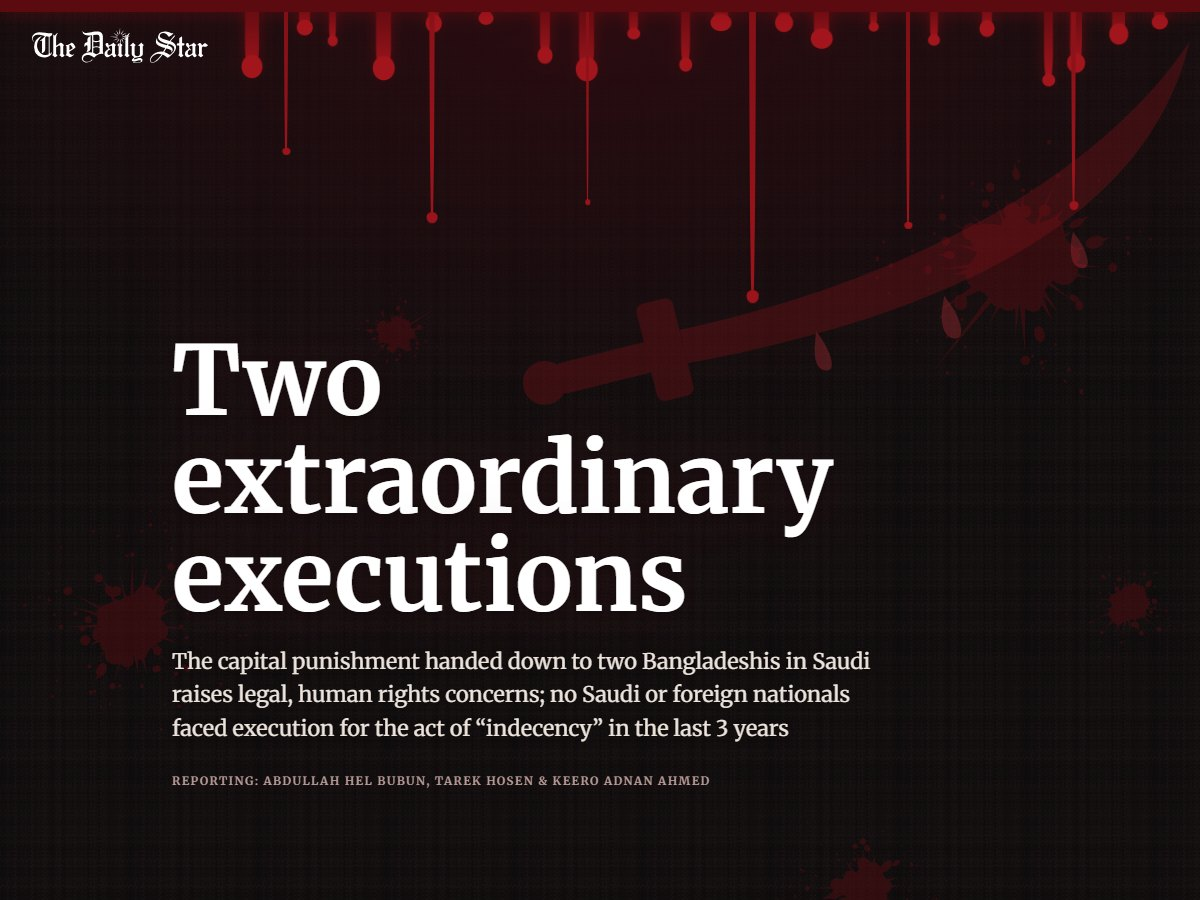
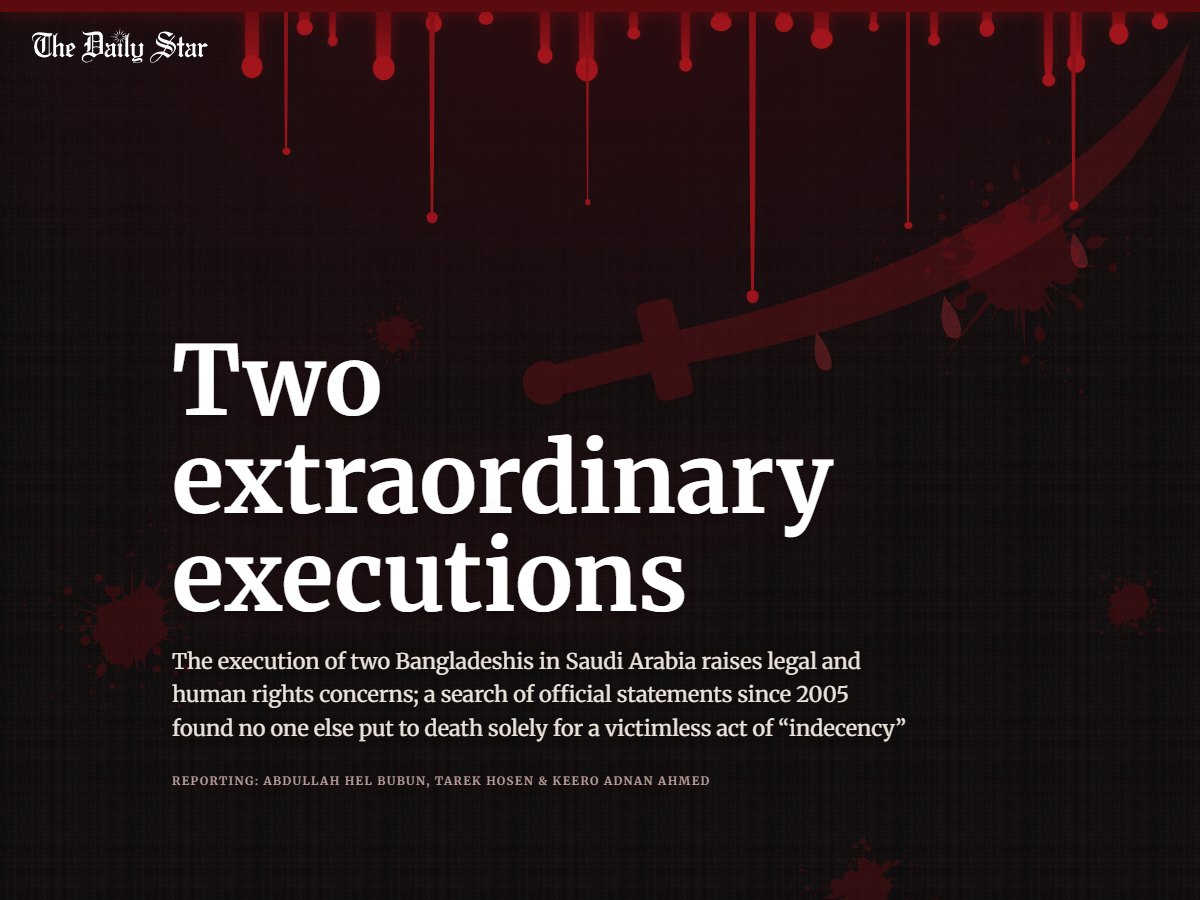
New dek, single SPA-archive paragraph with a working methodology link, credit rename
- Dek (hero + JSON-LD): search of official statements since 2005 found no one else put to death
  solely for a victimless act of "indecency". The old dek's "no Saudi or foreign nationals" was
  contradicted by the story itself. Share images re-shot from the new hero.
- The two SPA archive paragraphs are replaced by one paragraph after scene 1. "see Methodology
  Note" opens the note and jumps to it (Chrome 87 won't open <details> on a hash); Back returns
  to the paragraph. Methodology names the Boolean search and states its limit.
- Footer, llms.txt, README: "Data Collection & Processing: Mir Rownak".

Changed region(s): [[0.1542, 0.7156, 0.74, 0.84]]

diff --git a/index.html b/index.html
@@ -52,7 +52,7 @@
 <meta name="twitter:description" content="A Daily Star analysis of 665 Saudi government execution statements between January 2024 and 20 October 2026 reveals that the execution of Nazrul and Sweety was extremely unusual.">
 <meta name="twitter:image" content="https://campaign.thedailystar.net/saudi-execution/img/share.jpg">
 <meta name="twitter:image:alt" content="The story’s opening screen: the headline Two extraordinary executions, the standfirst and the byline over blood drips, splatters and a sword">
-<script type="application/ld+json">{"@context": "https://schema.org", "@type": "NewsArticle", "mainEntityOfPage": {"@type": "WebPage", "@id": "https://campaign.thedailystar.net/saudi-execution/"}, "url": "https://campaign.thedailystar.net/saudi-execution/", "headline": "Two extraordinary executions", "alternativeHeadline": "The capital punishment handed down to two Bangladeshis in Saudi raises legal, human rights concerns; no Saudi or foreign nationals faced execution for the act of “indecency” in the last 3 years", "description": "A Daily Star analysis of 665 Saudi government execution statements between January 2024 and 20 October 2026 reveals that the execution of Nazrul and Sweety was extremely unusual.", "image": ["https://campaign.thedailystar.net/saudi-execution/img/share-16x9.jpg", "https://campaign.thedailystar.net/saudi-execution/img/share-4x3.jpg", "https://campaign.thedailystar.net/saudi-execution/img/share-1x1.jpg", "https://campaign.thedailystar.net/saudi-execution/img/share.jpg"], "thumbnailUrl": "https://campaign.thedailystar.net/saudi-execution/img/share.jpg", "datePublished": "2026-10-29T00:00:00+06:00", "dateModified": "2026-10-29T00:00:00+06:00", "inLanguage": "en", "isAccessibleForFree": true, "articleSection": "Investigation", "keywords": ["Saudi Arabia executions", "Saudi Arabia death penalty", "Bangladeshi executed in Saudi Arabia", "Nazrul Islam Abdul Basir", "Sweety Akhtar", "Nazrul and Sweety execution", "fahisha", "indecency execution Makkah", "ta'zir", "qisas", "hudud", "Saudi Interior Ministry", "Saudi war on drugs", "drug-related executions", "captagon", "foreign nationals executed in Saudi Arabia", "migrant workers Saudi Arabia", "Bangladeshi migrants", "Amnesty International", "Reprieve", "European Saudi Organization for Human Rights", "most serious crimes international law", "Islamic law death penalty", "Saudi executions 2025", "Saudi executions 2026", "The Daily Star investigation"], "author": [{"@type": "Person", "name": "Abdullah Hel Bubun"}, {"@type": "Person", "name": "Tarek Hosen"}, {"@type": "Person", "name": "Keero Adnan Ahmed"}], "contributor": [{"@type": "Person", "name": "Mir Rownak"}], "publisher": {"@type": "NewsMediaOrganization", "name": "The Daily Star", "url": "https://www.thedailystar.net/", "logo": {"@type": "ImageObject", "url": "https://campaign.thedailystar.net/saudi-execution/img/logo.png", "width": 600, "height": 60}, "sameAs": ["https://www.facebook.com/dailystarnews", "https://x.com/dailystarnews", "https://www.youtube.com/channel/UCKSJ5rTXq-pYgAmAOhVS_zQ", "https://www.instagram.com/dailystar_bd/", "https://www.linkedin.com/company/thedailystar/"]}, "contentLocation": {"@type": "Place", "name": "Makkah, Saudi Arabia"}, "wordCount": 2564, "copyrightYear": 2026, "copyrightHolder": {"@type": "NewsMediaOrganization", "name": "The Daily Star"}, "about": [{"@type": "Thing", "name": "Capital punishment in Saudi Arabia"}, {"@type": "Thing", "name": "Bangladeshi migrant workers"}], "mentions": [{"@type": "Person", "name": "Nazrul Islam Abdul Basir"}, {"@type": "Person", "name": "Sweety Akhtar"}, {"@type": "Organization", "name": "Amnesty International"}, {"@type": "Organization", "name": "Reprieve"}, {"@type": "Organization", "name": "European Saudi Organization for Human Rights"}, {"@type": "GovernmentOrganization", "name": "Ministry of Interior, Saudi Arabia"}]}</script>
+<script type="application/ld+json">{"@context": "https://schema.org", "@type": "NewsArticle", "mainEntityOfPage": {"@type": "WebPage", "@id": "https://campaign.thedailystar.net/saudi-execution/"}, "url": "https://campaign.thedailystar.net/saudi-execution/", "headline": "Two extraordinary executions", "alternativeHeadline": "The execution of two Bangladeshis in Saudi Arabia raises legal and human rights concerns; a search of official statements since 2005 found no one else put to death solely for a victimless act of “indecency”", "description": "A Daily Star analysis of 665 Saudi government execution statements between January 2024 and 20 October 2026 reveals that the execution of Nazrul and Sweety was extremely unusual.", "image": ["https://campaign.thedailystar.net/saudi-execution/img/share-16x9.jpg", "https://campaign.thedailystar.net/saudi-execution/img/share-4x3.jpg", "https://campaign.thedailystar.net/saudi-execution/img/share-1x1.jpg", "https://campaign.thedailystar.net/saudi-execution/img/share.jpg"], "thumbnailUrl": "https://campaign.thedailystar.net/saudi-execution/img/share.jpg", "datePublished": "2026-10-29T00:00:00+06:00", "dateModified": "2026-10-29T00:00:00+06:00", "inLanguage": "en", "isAccessibleForFree": true, "articleSection": "Investigation", "keywords": ["Saudi Arabia executions", "Saudi Arabia death penalty", "Bangladeshi executed in Saudi Arabia", "Nazrul Islam Abdul Basir", "Sweety Akhtar", "Nazrul and Sweety execution", "fahisha", "indecency execution Makkah", "ta'zir", "qisas", "hudud", "Saudi Interior Ministry", "Saudi war on drugs", "drug-related executions", "captagon", "foreign nationals executed in Saudi Arabia", "migrant workers Saudi Arabia", "Bangladeshi migrants", "Amnesty International", "Reprieve", "European Saudi Organization for Human Rights", "most serious crimes international law", "Islamic law death penalty", "Saudi executions 2025", "Saudi executions 2026", "The Daily Star investigation"], "author": [{"@type": "Person", "name": "Abdullah Hel Bubun"}, {"@type": "Person", "name": "Tarek Hosen"}, {"@type": "Person", "name": "Keero Adnan Ahmed"}], "contributor": [{"@type": "Person", "name": "Mir Rownak"}], "publisher": {"@type": "NewsMediaOrganization", "name": "The Daily Star", "url": "https://www.thedailystar.net/", "logo": {"@type": "ImageObject", "url": "https://campaign.thedailystar.net/saudi-execution/img/logo.png", "width": 600, "height": 60}, "sameAs": ["https://www.facebook.com/dailystarnews", "https://x.com/dailystarnews", "https://www.youtube.com/channel/UCKSJ5rTXq-pYgAmAOhVS_zQ", "https://www.instagram.com/dailystar_bd/", "https://www.linkedin.com/company/thedailystar/"]}, "contentLocation": {"@type": "Place", "name": "Makkah, Saudi Arabia"}, "wordCount": 2415, "copyrightYear": 2026, "copyrightHolder": {"@type": "NewsMediaOrganization", "name": "The Daily Star"}, "about": [{"@type": "Thing", "name": "Capital punishment in Saudi Arabia"}, {"@type": "Thing", "name": "Bangladeshi migrant workers"}], "mentions": [{"@type": "Person", "name": "Nazrul Islam Abdul Basir"}, {"@type": "Person", "name": "Sweety Akhtar"}, {"@type": "Organization", "name": "Amnesty International"}, {"@type": "Organization", "name": "Reprieve"}, {"@type": "Organization", "name": "European Saudi Organization for Human Rights"}, {"@type": "GovernmentOrganization", "name": "Ministry of Interior, Saudi Arabia"}]}</script>
 <link rel="icon" href="img/favicon.ico" sizes="16x16">
 <link rel="sitemap" type="application/xml" title="Sitemap" href="sitemap.xml">
 <link rel="preload" href="fonts/merriweather-700.woff2" as="font" type="font/woff2" crossorigin>
@@ -160,7 +160,7 @@ mark.k{background:none;padding:0;font-weight:700}
 .cats[open]>summary:after,.meth[open]>summary:after{transform:rotate(45deg)}
 /* methodology note: a native disclosure on the page ground, between the names band and the footer */
 .mband{padding:2.6rem var(--gutter) 2.8rem;text-align:center}
-.meth{max-width:680px;margin:0 auto}
+.meth{max-width:680px;margin:0 auto;scroll-margin-top:1.5rem}
 .meth summary{display:inline-flex;align-items:center;gap:.8rem;min-height:44px;padding:.7rem 1.15rem;font:700 1rem/1.4 var(--serif);color:#f0c4bd;border:1px solid rgba(240,196,189,.32);background:rgba(8,5,6,.6);cursor:pointer;list-style:none;-webkit-tap-highlight-color:transparent}
 .meth summary:after{margin-left:0}
 .meth__in{margin-top:1.4rem;text-align:left}
@@ -390,7 +390,7 @@ dialog.prm::backdrop{background:rgba(0,0,0,.8)}
 <header class="hero" id="top">
 <div class="hero__art" aria-hidden="true"><div class="hero__glow"></div><svg class="spl" style="left:85%;top:26%;--s:300px;--r:0deg"><use href="#spl3"/></svg><svg class="spl" style="left:11%;top:62%;--s:240px;--r:70deg"><use href="#spl"/></svg><svg class="spl" style="left:72%;top:88%;--s:190px;--r:140deg"><use href="#spl2"/></svg><svg class="spl" style="left:33%;top:33%;--s:100px;--r:200deg"><use href="#spl3"/></svg><svg class="spl" style="left:94%;top:60%;--s:130px;--r:260deg"><use href="#spl"/></svg><svg class="sword" viewBox="0 0 500 220" aria-hidden="true"><path d="M130 118C250 122 400 100 492 18C446 108 330 152 130 140Z"/><rect x="106" y="96" width="24" height="64" rx="5"/><path d="M108 120H52a8 8 0 0 0 0 20h56z"/><circle cx="38" cy="130" r="14"/><path class="dr" d="M300 138c-7 14-8 26 0 28s7-14 0-28zM390 118c-6 12-7 22 0 24s6-12 0-24zM215 140c-6 14-7 24 0 26s6-12 0-26z"/></svg><div class="drips"><i style="left:1.8%;height:67px;width:14px;animation-duration:9.3s;animation-delay:-4.1s"></i><i style="left:7.3%;height:32px;width:11px;animation-duration:10.4s;animation-delay:-6.3s"></i><i style="left:10.4%;height:38px;width:7px;animation-duration:11.7s;animation-delay:-5.5s"></i><i style="left:15.2%;height:69px;width:15px;animation-duration:10.6s;animation-delay:-4.9s"></i><i style="left:20.6%;height:25px;width:11px;animation-duration:6.4s;animation-delay:-1.5s"></i><i style="left:26.0%;height:25px;width:10px;animation-duration:9.1s;animation-delay:-6.7s"></i><i style="left:32.1%;height:53px;width:10px;animation-duration:10.6s;animation-delay:-3.7s"></i><i style="left:36.1%;height:70px;width:15px;animation-duration:11.9s;animation-delay:-5.7s"></i><i style="left:41.3%;height:41px;width:9px;animation-duration:6.5s;animation-delay:-6.1s"></i><i style="left:46.6%;height:63px;width:9px;animation-duration:12.7s;animation-delay:-6.8s"></i><i style="left:50.0%;height:34px;width:14px;animation-duration:9.3s;animation-delay:-7.8s"></i><i style="left:56.6%;height:27px;width:12px;animation-duration:11.4s;animation-delay:-2.2s"></i><i style="left:60.3%;height:49px;width:15px;animation-duration:11.3s;animation-delay:-0.9s"></i><i style="left:66.0%;height:29px;width:7px;animation-duration:11.6s;animation-delay:-1.4s"></i><i style="left:72.2%;height:45px;width:8px;animation-duration:11.1s;animation-delay:-1.0s"></i><i style="left:77.6%;height:29px;width:10px;animation-duration:7.5s;animation-delay:-2.2s"></i><i style="left:83.9%;height:85px;width:9px;animation-duration:12.2s;animation-delay:-1.7s"></i><i style="left:86.6%;height:63px;width:12px;animation-duration:6.7s;animation-delay:-7.9s"></i><i style="left:90.9%;height:36px;width:13px;animation-duration:8.3s;animation-delay:-2.4s"></i><i style="left:95.3%;height:28px;width:11px;animation-duration:7.7s;animation-delay:-4.8s"></i><span class="run w" style="left:6%;--w:4px;--len:44%;--from:0.35"><i></i></span><span class="run" style="left:21%;--w:6px;--len:100%;--from:0.22"><i></i></span><span class="run w" style="left:37%;--w:3px;--len:68%;--from:0.3"><i></i></span><span class="run" style="left:54%;--w:7px;--len:100%;--from:0.3"><i></i></span><span class="run w" style="left:70%;--w:4px;--len:57%;--from:0.4"><i></i></span><span class="run" style="left:87%;--w:5px;--len:83%;--from:0.25"><i></i></span></div><div class="band"></div><div class="pool"></div></div>
 <div class="masthead"><a href="https://www.thedailystar.net" target="_blank" rel="noopener" aria-label="The Daily Star home (opens in a new tab)"><svg class="tds-logo" viewBox="0 0 321.41 63.84" aria-hidden="true"><use href="#tds-logo"/></svg></a></div>
-<div class="hero__body"><h1 tabindex="-1">Two extraordinary executions</h1><p class="dek">The capital punishment handed down to two Bangladeshis in Saudi raises legal, human rights concerns; no Saudi or foreign nationals faced execution for the act of “indecency” in the last 3 years</p><p class="by">Reporting: Abdullah Hel Bubun, Tarek Hosen &amp; Keero Adnan Ahmed</p></div>
+<div class="hero__body"><h1 tabindex="-1">Two extraordinary executions</h1><p class="dek">The execution of two Bangladeshis in Saudi Arabia raises legal and human rights concerns; a search of official statements since 2005 found no one else put to death solely for a victimless act of “indecency”</p><p class="by">Reporting: Abdullah Hel Bubun, Tarek Hosen &amp; Keero Adnan Ahmed</p></div>
 </header>
 <main id="story">
 <div class="txt"><p>Nazrul Islam Abdul Basir and Sweety Akhtar left Bangladesh for Saudi Arabia in 2022, hoping for a better life. Both used to work as cleaners for a Saudi company called AL-Majal to support their families back home.</p>
@@ -398,12 +398,11 @@ dialog.prm::backdrop{background:rgba(0,0,0,.8)}
 <p>In a <button type="button" class="prl" id="prOpen" aria-haspopup="dialog">statement</button> announcing the executions, the Saudi Interior Ministry said the punishment reflected the “seriousness and gravity” of the crime which it said violated the <mark class="r">“sanctity of the time and place”</mark>. However, a Daily Star analysis of 665 Saudi government execution statements between January 2024 and 20 October 2026 reveals that the execution was extremely unusual.</p></div>
 <section class="scrolly" id="s1"><div class="sticky"><div class="chart"><div class="legw"><div class="leg" aria-hidden="true"></div></div><div class="plot"><canvas role="img" aria-label="Dot chart: each of the 887 people executed in Saudi Arabia from January 2024 to 20 October 2026, coloured by offence"></canvas><span class="lab"></span><span class="lab"></span></div></div></div><div class="steps"><div class="step"><p>Each icon represents one of the 887 people Saudi Arabia executed over the past three years. Only China and Iran executed more during this period. Rights groups believe the real number is even higher, due to a lack of transparency in Saudi’s official reporting.</p></div><div class="step"><p>Drug-related offences — which right groups stress fail to meet the international legal threshold of a “most serious crime”— accounted for more than half of the executions (<mark class="k k-d">53.78 pc</mark>) carried out.</p></div><div class="step"><p>Murder convictions were responsible for another <mark class="k k-m">34 percent</mark>, often coupled with other charges such as armed robbery and kidnapping.</p></div><div class="step"><p>Armed robbery, terrorism, rape, kidnapping, treason and gross sexual misconduct or al-fahisha accounted for another <mark class="k k-o">12 percent</mark>.</p></div><div class="step"><p>The kingdom executed <mark class="k k-s">15 individuals</mark> for al-fahisha or sexual offenses during this period.</p></div><div class="step"><p>Out of those, <mark class="k k-s">13 cases</mark> involved rape or sexual assault—frequently accompanied by violent charges such as murder, kidnapping, or robbery.</p></div><div class="step"><p>Only two individuals—Nazrul and Sweety—were put to death for an act of <mark class="g">fahisha</mark> that involved no victims, force, or additional crimes.</p></div></div></section>
 <div class="txt">
+<p>The Saudi Interior Ministry has published execution statements through the Saudi Press Agency since at least <a href="https://www.spa.gov.sa/274662" target="_blank" rel="noopener">2005</a>. The Daily Star’s analysis covers only the past three years, but a further search of more than two decades of these statements, using combinations of Arabic keywords (<a href="#methodology">see Methodology Note</a>), found no other execution for a comparable offence: an act of fahisha that involved no force, no victim and no other crime.</p>
 <p>Duaa Dhainy, a researcher at Berlin-based <a href="https://worldcoalition.org/membre/european-saudi-organization-for-human-rights-esohr/" target="_blank" rel="noopener">European Saudi Organization for Human Rights</a> (ESOHR), called the death penalty for such a non-violent act of indecency “deeply alarming”.</p>
 <p>“The offence (for which Nazrul and Sweety were executed) falls far outside the threshold of the “most serious crimes” under international law, which is restricted to crimes involving intentional killing,” she told this newspaper on October 26.</p>
 <p>Media reports reviewed by this newspaper also show that similar offences in Saudi Arabia received far lighter sentences for both Saudi and non-Saudi individuals. In <a href="https://english.ahram.org.eg/UI/Front/Inner.aspx?NewsContentID=60650" target="_blank" rel="noopener">a 2012 case</a>, for instance, the court sentenced a 54-year-old Saudi national to four months in prison, 70 lashes and a pledge to never commit a crime. The man, according to reports, engaged in an indecent act with a 24-year-old woman inside a mosque in Madina called Masjid al-Nabawī.</p>
 <p>In another <a href="https://www.newarab.com/opinion/fake-pilgrim-jailed-sexual-harassment-masjid-al-haram" target="_blank" rel="noopener">notable case</a> in 2015, a criminal court sentenced a non-Saudi national to four years in prison, followed by deportation and 1,000 lashes for sexual harassment of multiple women near Kaabah, the Muslim world’s most sacred site.</p>
-<p>The Saudi government’s own records point the same way. The Interior Ministry’s execution statements on the Saudi Press Agency website go back to at least <a href="https://www.spa.gov.sa/274662" target="_blank" rel="noopener">2005</a>, and none of them appears to describe another execution for an act of fahisha that involved no force, no victim and no other crime. In older statements, the term seems to appear only alongside rape, the abuse of children or other violent crimes. In <a href="https://www.spa.gov.sa/2341310" target="_blank" rel="noopener">a 2022 case</a> in Dammam, for example, two men were executed for raiding homes and committing fahisha “by force”. In <a href="https://www.spa.gov.sa/N2330225" target="_blank" rel="noopener">a 2025 case</a> in the Eastern Province, the man had abducted two children and lured others with the aim of abusing them.</p>
-<p>The wording of the October 14 announcement also appears to be unique. When earlier statements explain why a sexual offence deserved death, they tend to point to the force used or the harm done to a victim. <a href="https://www.spa.gov.sa/N2098046" target="_blank" rel="noopener">One from 2024</a>, for instance, says the man acted “by force, domination and coercion”. The sentence against Nazrul and Sweety rests instead on the “sanctity of the time and place”. The closing warning is different too: where earlier statements warn anyone who “attacks peaceful people”, <a href="https://www.spa.gov.sa/N2701392" target="_blank" rel="noopener">this one</a> warns anyone who “transgresses against the sanctity of mosques”. Neither of these two “sanctity” phrases appears to have been used in a Saudi execution statement before.</p>
 <h2>Confusions over allegations</h2>
 <p>Nazrul and Sweety had been arrested and detained in separate prisons in Jeddah since August 2023, but over separate allegations. According to a confidential Bangladesh consular memo obtained by The Daily Star, Nazrul was accused of a ICT-related crime and Sweety of adultery.</p>
 <p>But the memo did not establish any link between either of these separate allegations and the offence cited in the execution announcement. It remains unclear with whom Sweety committed an “act of indecency.”</p><figure class="fb"><picture><source media="(min-width: 700px)" type="image/webp" srcset="img/nazrul-fb-d-606.webp"><source media="(min-width: 700px)" srcset="img/nazrul-fb-d-606.jpg"><source type="image/webp" srcset="img/nazrul-fb-m-480.webp 480w, img/nazrul-fb-m-720.webp 720w" sizes="(max-width: 699px) calc(100vw - 32px)"><img src="img/nazrul-fb-m-720.jpg" srcset="img/nazrul-fb-m-480.jpg 480w, img/nazrul-fb-m-720.jpg 720w" sizes="(max-width: 699px) calc(100vw - 32px)" width="720" height="993" loading="lazy" decoding="async" alt="Facebook post by Nazrul, 13 November 2022: three photos of him at an airport, captioned Good Bye Bangladesh"></picture><figcaption>Before leaving for Saudi Arabia, Nazrul posted these airport pictures on Facebook on 13 November 2022. “Good Bye Bangladesh,” he wrote, adding in Bangla: “I miss everyone so much. Please, all of you, pray for me.” <i>Screenshot: Nazrul’s Facebook profile</i></figcaption></figure>
@@ -471,12 +470,12 @@ dialog.prm::backdrop{background:rgba(0,0,0,.8)}
 <p>أقدم كل من/ نذر ال اسلام عبد ال بصير والمرأة/ سيتي اختر -بنجلاديشيي الجنسية- على فعل الفاحشة داخل أحد المساجد بالعاصمة المقدسة، وبفضل من الله تمكنت الجهات الأمنية من القبض على المذكورين، وأسفر التحقيق معهما عن توجيه الاتهام إليهما بارتكاب الجريمة، وبإحالتهما إلى المحكمة المختصة؛ صدر بحقهما حُكم يقضي بثبوت ما نسب إليهما والحُكم بقتلهما تعزيرًا <mark class="y">لخطورة وجسامة</mark> ما أقدما عليه بانتهاكهما <mark class="y">حرمة الزمان والمكان</mark>، وأصبح الحُكم نهائيًا بعد تأييده من مرجعه، وصدر أمر ملكي بإنفاذ ما تقرر شرعًا بحق المذكورين.</p>
 <p>وتم تنفيذ حُكم القتل تعزيرًا بكل من/ نذر ال اسلام عبد ال بصير و/ سيتي اختر -بنجلاديشيي الجنسية- يوم الأربعاء بتاريخ 3 / 5 / 1448هـ الموافق 14 / 10 / 2026م بمنطقة مكة المكرمة.</p></div></div>
 <div class="pf">Excerpt only: the full statement also opens with Quranic verses and ends with a warning from the ministry. Read the complete original at <a href="https://www.spa.gov.sa/N2701392" target="_blank" rel="noopener">spa.gov.sa</a>.</div></dialog>
-<div class="mband"><details class="meth">
+<div class="mband"><details class="meth" id="methodology">
 <summary>Methodology Note</summary>
 <div class="meth__in">
 <p>The Daily Star collected the press statements issued by the Saudi Interior Ministry and published by the Saudi Press Agency between January 1, 2024 and October 20, 2026. The statements, originally published in Arabic, were translated into English using Claude Opus 5.5. The Daily Star journalists then analysed the translated statements for punishment type, offence and nationality.</p>
 <p>The findings were cross-checked against the tracking of Saudi executions by other organisations, including Reprieve, Amnesty International and the European Saudi Organisation for Human Rights (ESOHR).</p>
-<p>To see whether the case had any earlier parallel, The Daily Star also searched the Interior Ministry’s execution statements in the Saudi Press Agency’s online archive, from 2005 to October 2026, using Arabic keywords. These were <span lang="ar" dir="rtl">فعل الفاحشة</span> (committing fahisha) and <span lang="ar" dir="rtl">فاحشة الزنا</span> (the fahisha of zina), and the two phrases the October 14 statement uses to justify the sentence and close the announcement: <span lang="ar" dir="rtl">حرمة الزمان والمكان</span> (sanctity of the time and place) and <span lang="ar" dir="rtl">حرمة المساجد</span> (sanctity of mosques). The statements found were read in the original Arabic and checked for any mention of force, a victim, a minor or another crime such as robbery, abduction, terrorism or killing.</p>
+<p>To see whether the case had any earlier parallel, The Daily Star also ran a Boolean search of the Interior Ministry’s execution statements in the Saudi Press Agency’s online archive, from 2005 to October 2026, combining Arabic keywords and exact phrases. These were <span lang="ar" dir="rtl">فعل الفاحشة</span> (committing fahisha) and <span lang="ar" dir="rtl">فاحشة الزنا</span> (the fahisha of zina), and the two phrases the October 14 statement uses to justify the sentence and close the announcement: <span lang="ar" dir="rtl">حرمة الزمان والمكان</span> (sanctity of the time and place) and <span lang="ar" dir="rtl">حرمة المساجد</span> (sanctity of mosques). The statements found were read in the original Arabic and checked for any mention of force, a victim, a minor or another crime such as robbery, abduction, terrorism or killing.</p>
 <p>No other statement found described an execution for fahisha without force, a victim or another crime, and neither phrase was found in any other execution statement. Earlier statements also close with a warning to anyone who “attacks peaceful people” (<span lang="ar" dir="rtl">يتعدى على الآمنين</span>); the October 14 statement replaces this with anyone who “transgresses against the sanctity of mosques” (<span lang="ar" dir="rtl">يتعدى على حرمة المساجد</span>). In the earlier statements that use the term fahisha, it comes with rape, the abuse of children or other violent crimes, for example:</p>
 <ul>
 <li><a href="https://www.spa.gov.sa/2341310" target="_blank" rel="noopener">March 28, 2022, Dammam</a>: two Saudi men, ta’zir. Raiding and robbing homes with others, fahisha “by force” (<span lang="ar" dir="rtl">بالقوة</span>), heroin and hashish use.</li>
@@ -488,7 +487,7 @@ dialog.prm::backdrop{background:rgba(0,0,0,.8)}
 <li><a href="https://www.spa.gov.sa/N2234421" target="_blank" rel="noopener">December 28, 2024, Jazan</a>: one Saudi man, hudud (hadd al-hirabah). Abducting a girl who was a minor, fahisha by force.</li>
 <li><a href="https://www.spa.gov.sa/N2330225" target="_blank" rel="noopener">May 29, 2025, Eastern Province</a>: one Saudi man, ta’zir. Abducting two children, harassing a girl, luring other children with the aim of fahisha.</li>
 </ul>
-<p>Because the search relied on keywords rather than a reading of every statement in the archive, a case worded differently may have been missed. The story therefore says the case appears to be the only one of its kind.</p>
+<p>Because the search relied on keywords rather than a reading of every statement in the archive, a case worded differently may have been missed. The story therefore reports what the search found, not that no such case exists.</p>
 </div>
 </details></div>
 <footer class="site-footer">
@@ -502,7 +501,7 @@ dialog.prm::backdrop{background:rgba(0,0,0,.8)}
 <a href="https://www.linkedin.com/company/thedailystar/" rel="noopener" target="_blank" aria-label="LinkedIn"><svg aria-hidden="true"><use href="#i-linkedin"/></svg></a>
 </nav>
 <div class="site-footer__credits">
-<p><span>Data Collection:</span> Mir Rownak</p>
+<p><span>Data Collection &amp; Processing:</span> Mir Rownak</p>
 <p><span>Planning &amp; Design:</span> Abdullah Hel Bubun</p>
 <p><span>Development:</span> Mir Rownak and Abdullah Hel Bubun</p>
 <p class="site-footer__copy">&copy; 2026 The Daily Star. All rights reserved.</p>
@@ -510,6 +509,6 @@ dialog.prm::backdrop{background:rgba(0,0,0,.8)}
 </div>
 </footer>
 <a class="totop" href="#top" aria-label="Back to top"><svg viewBox="0 0 24 24" aria-hidden="true"><path d="M12 19V5M5.5 11.5 12 5l6.5 6.5"/></svg></a>
-<script src="js/story.js?v=20261029d" defer></script>
+<script src="js/story.js?v=20261029e" defer></script>
 </body>
 </html>

diff --git a/js/story.js b/js/story.js
@@ -1,4 +1,4 @@
-/* Two extraordinary executions: dot-chart scenes, war-on-drugs chart, hero runs, names list (with flags), press release, categories tabs, back to top. */
+/* Two extraordinary executions: dot-chart scenes, war-on-drugs chart, hero runs, names list (with flags), press release, categories tabs, back to top, methodology links. */
 (function () {
 'use strict';
 var RM = !!(window.matchMedia && matchMedia('(prefers-reduced-motion: reduce)').matches);
@@ -492,5 +492,24 @@ guard(function () {
   addEventListener('load', function () { pin(true); });
   if (document.fonts && document.fonts.ready) document.fonts.ready.then(function () { pin(true); });
   addEventListener('resize', function () { pin(false); });
+});
+
+/* ---------- "see Methodology Note" links ----------
+   Before Chrome 97 a hash link does not open a closed <details>, so open the note, then jump to it: instantly, as
+   gliding past both scenes and the names list is slow on old phones. The pushed history entry lets the back button
+   return the reader to the paragraph they left. */
+guard(function () {
+  var m = $('#methodology'), s = m && $('summary', m);
+  if (!m) return;
+  function show() { m.open = true; m.scrollIntoView({ block: 'start', behavior: 'instant' }); }
+  $$('a[href="#methodology"]').forEach(function (a) {
+    a.addEventListener('click', function (e) {
+      e.preventDefault();
+      if (location.hash !== '#methodology' && history.pushState) history.pushState(null, '', '#methodology');
+      show();
+      if (s) s.focus({ preventScroll: true });
+    });
+  });
+  if (location.hash === '#methodology') show();
 });
 })();

diff --git a/HANDOVER.md b/HANDOVER.md
@@ -1,15 +1,26 @@
 # Handover: Two extraordinary executions (2026-10-28)
 
 ## What changed and why
-- **SPA archive paragraphs (Mir, 2026-10-29):** two new paragraphs after the 2015 Kaabah case, before "Confusions
-  over allegations": no earlier execution for victimless fahisha appears in SPA statements back to 2005, and the
-  "sanctity of the time and place" / "sanctity of mosques" wording appears to be new. Hedged ("appears to") because
-  the archive was keyword-searched, not read in full; worded so it doesn't read as a second analysis. The Methodology
-  Note gained the search terms (Arabic in `lang="ar"` spans), eight linked comparison statements and the limits. Every
+- **Dek and credit (Mir, 2026-10-29):** dek (hero + JSON-LD alternativeHeadline) now "The execution of two
+  Bangladeshis in Saudi Arabia raises legal and human rights concerns; a search of official statements since 2005
+  found no one else put to death solely for a victimless act of “indecency”". The old one ("no Saudi or foreign
+  nationals faced execution for … ‘indecency’ in the last 3 years") was wrong on its face: Nazrul and Sweety are
+  foreign nationals, and 13 others were executed for rape or sexual assault. Footer credit "Data Collection &
+  Processing: Mir Rownak" (llms.txt, README match). Share images re-shot (dek is in the hero).
+- **SPA archive line (Mir, 2026-10-29):** one paragraph right after scene 1, before Duaa Dhainy: the three-year
+  analysis vs a separate keyword search of SPA statements back to 2005, which found no other execution for fahisha
+  with no force, victim or other crime. It replaced two longer paragraphs (after the 2015 Kaabah case) that also
+  covered the "sanctity" wording; Mir cut those. Methodology's last line now says the story reports what the search
+  found, not that no such case exists. Reworded from Mir's draft: "since at least 2005" (the ministry's archive
+  is only known to reach 2005), "combinations of Arabic keywords" in the story, "Boolean search ... combining
+  Arabic keywords and exact phrases" in the note. "see Methodology Note" links to `#methodology`: story.js opens the
+  `<details>` and jumps there instantly (Chrome 87 won't open it on a hash; the page's smooth scroll took >1 s over
+  ~20,000 px), pushes a history entry so Back returns to the paragraph, and opens it on a shared `#methodology` URL.
+  story.js `?v=20261029e`. The Methodology Note gained the search terms (Arabic in `lang="ar"` spans), eight linked comparison statements and the limits. Every
   linked SPA statement was read in the original Arabic. Left out of the source audit as wrong or unverified: the
   2014 "man and woman" case (SPA 1272080 was two men), "ينتهك الأعراض" as unique, the joint man-woman point, and
   its keyword filter (it lists قتل, which every death-sentence statement contains). `.meth__in` links now use the
-  story's link style; list styles added. wordCount 1944 → 2564. No new glyphs (font subsets unchanged).
+  story's link style; list styles added. wordCount 1944 → 2415. No new glyphs (font subsets unchanged).
 - **Copy round (Mir, 2026-10-29):** new intro paragraphs 2–3 (red marks on "‘fahisha’ or gross sexual indecency"
   and "sanctity of the time and place"; the press-release dialog now opens from the word "statement"). Dek drops
   "ever". Scene 1 now has 7 cards: card 4 reads "gross sexual misconduct or al-fahisha" (plain text, Mir; its two dots stay green), two new cards (15

diff --git a/README.md b/README.md
@@ -79,5 +79,5 @@ ever becomes the live host on our domain, nothing needs changing.
 - Share images: `python tools/share_images.py` (needs Python, Playwright and Chrome) re-shoots the hero.
 - If new characters appear in the text, re-subset the fonts (see `CLAUDE.md`).
 
-Credits: reporting Abdullah Hel Bubun, Tarek Hosen and Keero Adnan Ahmed; data collection Mir Rownak;
+Credits: reporting Abdullah Hel Bubun, Tarek Hosen and Keero Adnan Ahmed; data collection & processing Mir Rownak;
 planning & design Abdullah Hel Bubun; development Mir Rownak and Abdullah Hel Bubun.
